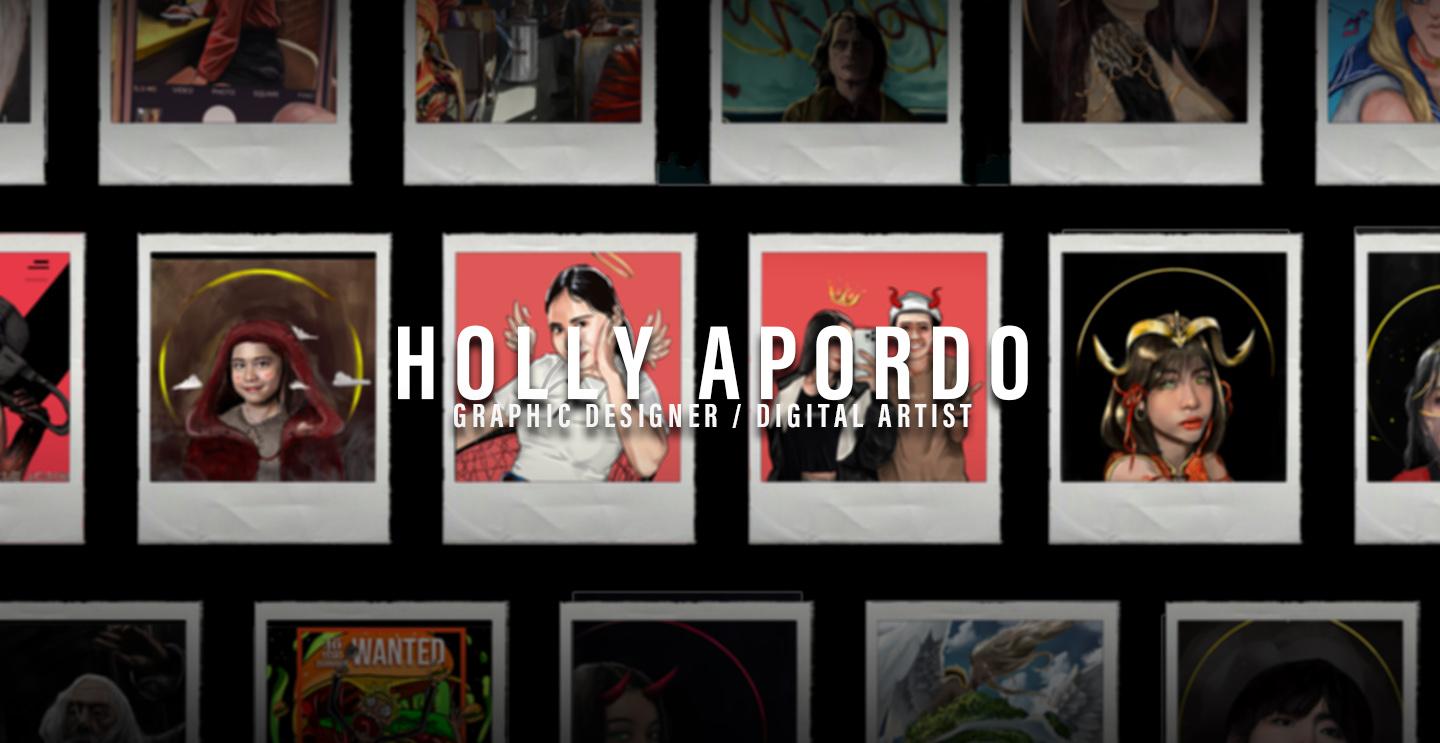
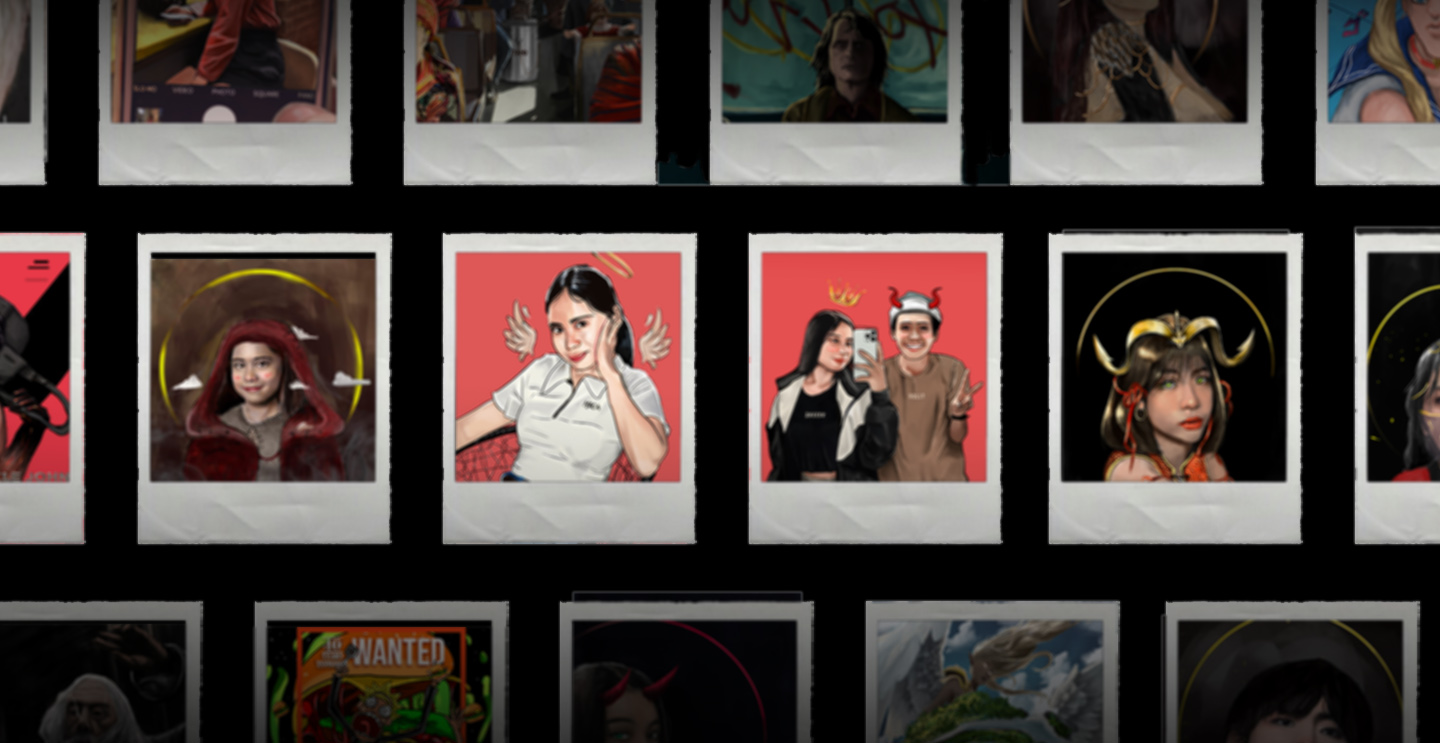
update html file

diff --git a/style.css b/style.css
@@ -41,7 +41,6 @@ html {
     flex: 1 1 auto;
     text-transform: uppercase;
     text-align: center;
-    font-weight: ;
     font-size: 35px;
 }
 
@@ -66,6 +65,36 @@ html {
     height: 100vh;
 }
 
+.title {
+    position: absolute;
+    top: 50%;
+    left: 50%;
+    transform: translate(-50%, -50%);
+    color: #fff;
+    font-family: 'Acumin', Bold;
+    font-size: 100px;
+    text-align: center;
+    z-index: 1;
+    text-shadow: 0 0 10px rgb(0, 0, 0),
+    0 0 20px rgb(0, 0, 0),
+    0 0 30px rgb(0, 0, 0);
+
+}
+
+.sub-title {
+    position: absolute;
+    top: 60%;
+    left: 50%;
+    transform: translate(-50%, -50%);
+    color: #fff;
+    font-family: 'Acumin', Bold;
+    font-size: 35px;
+    text-align: center;
+    z-index: 1;
+    text-shadow: 0 0 10px rgb(0, 0, 0),
+    0 0 20px rgb(0, 0, 0),
+    0 0 30px rgb(0, 0, 0);
+}
 
 
 body {
@@ -74,16 +103,10 @@ body {
     scrollbar-width: none;
 }
 
-
-
-
 body::-webkit-scrollbar {
     display: none;
 }
 
-/* .btn{
-    letter-spacing: 0.5;
-} */
 ul {
     list-style: none;
 }
@@ -107,6 +130,7 @@ button {
     margin-bottom: 90px;
     padding: 0 25px;    
 }
+
 /* Work */
 
 .work{
@@ -329,7 +353,13 @@ button {
 
 }
 
+@media (max-width: 357px) {
+
+}
+
 @media (max-width: 768px) and (max-width: 992px){
+    
+
     .grid {
         grid-template-columns: 1fr 1fr 1fr;
         grid-template-rows: 300px 300px 300px;
@@ -488,15 +518,175 @@ button {
 }
 
 @media (max-width: 520px) {
+
+    .title {
+        text-align: center;
+        font-size: 45px;
+    }
+
+    .sub-title {
+        
+        margin-top: 20px;
+        font-size: 15px;
+    }
+
     .grid {
         grid-template-columns: 1fr 1fr;
-        grid-template-rows: repeat(6, 250px);
+        grid-template-rows: auto;
     }
-    .grid .project {
-        grid-column: initial;
-        grid-row: initial;
+    .project {
+        grid-column: auto;
+        grid-row: auto;
     }
-} 
+
+    .project:nth-child(1) {
+        grid-column: 1 / 2;
+        grid-row: 3 / 4;
+    }
+    .project:nth-child(2) {
+        grid-column: 2 / 3;
+        grid-row: 3 / 4;
+    }
+    .project:nth-child(3) {
+        grid-column: 1 / 2;
+        grid-row: 4 / 5;
+    }
+    .project:nth-child(4) {
+        grid-column: 2 / 3;
+        grid-row: 4 / 5;
+    }
+    .project:nth-child(5) {
+        grid-column: 2 / 3;
+        grid-row: 5 / 6;
+    }
+    .project:nth-child(6) {
+        grid-column: 1 / 2;
+        grid-row: 5 / 6;
+    }
+    .project:nth-child(7) {
+        grid-column: 2 / 3;
+        grid-row: 6 / 7;
+    }
+    .project:nth-child(8) {
+        grid-column: 1 / 2;
+        grid-row: 6 / 7;
+    }
+    .project:nth-child(9) {
+        grid-column: 2 / 3;
+        grid-row: 7 / 8;
+    }
+    .project:nth-child(10) {
+        grid-column: 1 / 2;
+        grid-row: 7 / 8;
+    }
+    .project:nth-child(11) {
+        grid-column: 2 / 3;
+        grid-row: 8 / 9;
+    }
+    .project:nth-child(12) {
+        grid-column: 1 / 2;
+        grid-row: 8 / 9;
+    }
+    .project:nth-child(13) {
+        grid-column: 2 / 3;
+        grid-row: 9 / 10;
+    }
+    .project:nth-child(14) {
+        grid-column: 1 / 2;
+        grid-row: 9 / 10;
+    }
+    .project:nth-child(15) {
+        grid-column: 2 / 3;
+        grid-row: 10 / 11;
+    }
+    .project:nth-child(16) {
+        grid-column: 1 / 2;
+        grid-row: 10 / 11;
+    }
+    .project:nth-child(17) {
+        grid-column: 2 / 3;
+        grid-row: 11 / 12;
+    }
+    .project:nth-child(18) {
+        grid-column: 1 / 2;
+        grid-row: 11 / 12;
+    } 
+    .project:nth-child(19) {
+        grid-column: 2 / 3;
+        grid-row: 12 / 13;
+    }
+    .project:nth-child(20) {
+        grid-column: 1 / 2;
+        grid-row: 12 / 13;
+    } 
+    .project:nth-child(21) {
+        grid-column: 2 / 3;
+        grid-row: 13 / 14;
+    }
+    .project:nth-child(22) {
+        grid-column: 1 / 2;
+        grid-row: 13 / 14;
+    }
+    .project:nth-child(23) {
+        grid-column: 2 / 3;
+        grid-row: 14 / 15;
+    }
+    .project:nth-child(24) {
+        grid-column: 1 / 2;
+        grid-row: 14 / 15;
+    }
+    .project:nth-child(25) {
+        grid-column: 2 / 3;
+        grid-row: 15 / 16;
+    }
+    .project:nth-child(26) {
+        grid-column: 1 / 2;
+        grid-row: 15 / 16;
+    }
+    .project:nth-child(27) {
+        grid-column: 2 / 3;
+        grid-row: 16 / 17;
+    }
+    .project:nth-child(28) {
+        grid-column: 1 / 2;
+        grid-row: 16 / 17;
+    }
+    .project:nth-child(29) {
+        grid-column: 1 / 2;
+        grid-row: 17 / 18;
+    }
+
+    .project:nth-child(30) {
+        grid-column: 2 / 3;
+        grid-row: 17 / 18;
+    }
+    .project:nth-child(31) {
+        grid-column: 1 / 2;
+        grid-row: 18 / 19;
+    }
+    .project:nth-child(32) {
+        grid-column: 2 / 3;
+        grid-row: 18  / 19;
+    } 
+
+    .project:nth-child(33) {
+        grid-column: 1 / 2;
+        grid-row: 1 / 2;
+    }
+    .project:nth-child(34) {
+        grid-column: 1 / 3;
+        grid-row: 2 / 3;
+    }
+    .project:nth-child(35) {
+        grid-column: 2 / 3;
+        grid-row: 1 / 2;
+    }
+    .footerContainer {
+        width: 60%;
+        padding: 70px 30px 20px;
+    }
+}
+
 
 
 

diff --git a/index.html b/index.html
@@ -7,6 +7,7 @@
     <link rel="icon" href="https://i.ibb.co/zRsTj3p/Frame-1-37.png">
     <link rel="preconnect" href="https://fonts.googleapis.com">
     <link rel="preconnect" href="https://fonts.gstatic.com" crossorigin>
+    <link rel="stylesheet" href="https://fonts.googleapis.com/css?family=Acumin&display=swap">
     <link href="https://fonts.googleapis.com/css2?family=Inter:wght@400;500;600;700&display=swap" rel="stylesheet">
     <link rel="stylesheet" href="https://cdnjs.cloudflare.com/ajax/libs/materialize/1.0.0/css/materialize.min.css">
     <link rel="stylesheet" href="https://cdnjs.cloudflare.com/ajax/libs/font-awesome/6.4.0/css/all.min.css"
@@ -26,7 +27,10 @@
   </ul>
 </nav>
   <div class="parallax-container">
-    <div class="parallax center-align"> <img src="images/header.jpg" alt=""></div>
+    <div class="parallax"> <img src="images/header.jpg" alt="">
+      <div class="title"> HOLLY APORDO</div>
+      <div class="sub-title">Graphic Designer | Digital Artist</div>
+    </div>
   </div>
 </header>
 <div class=""></div>
@@ -161,7 +165,7 @@
                   alt="Project" class="grid-img">
               </div>
               <div class="project">
-                <img src="images/logo7.jpg"
+                <img src="images/logo7.jpg" 
                   alt="Project" class="grid-img">
               </div>
               <div class="project">
